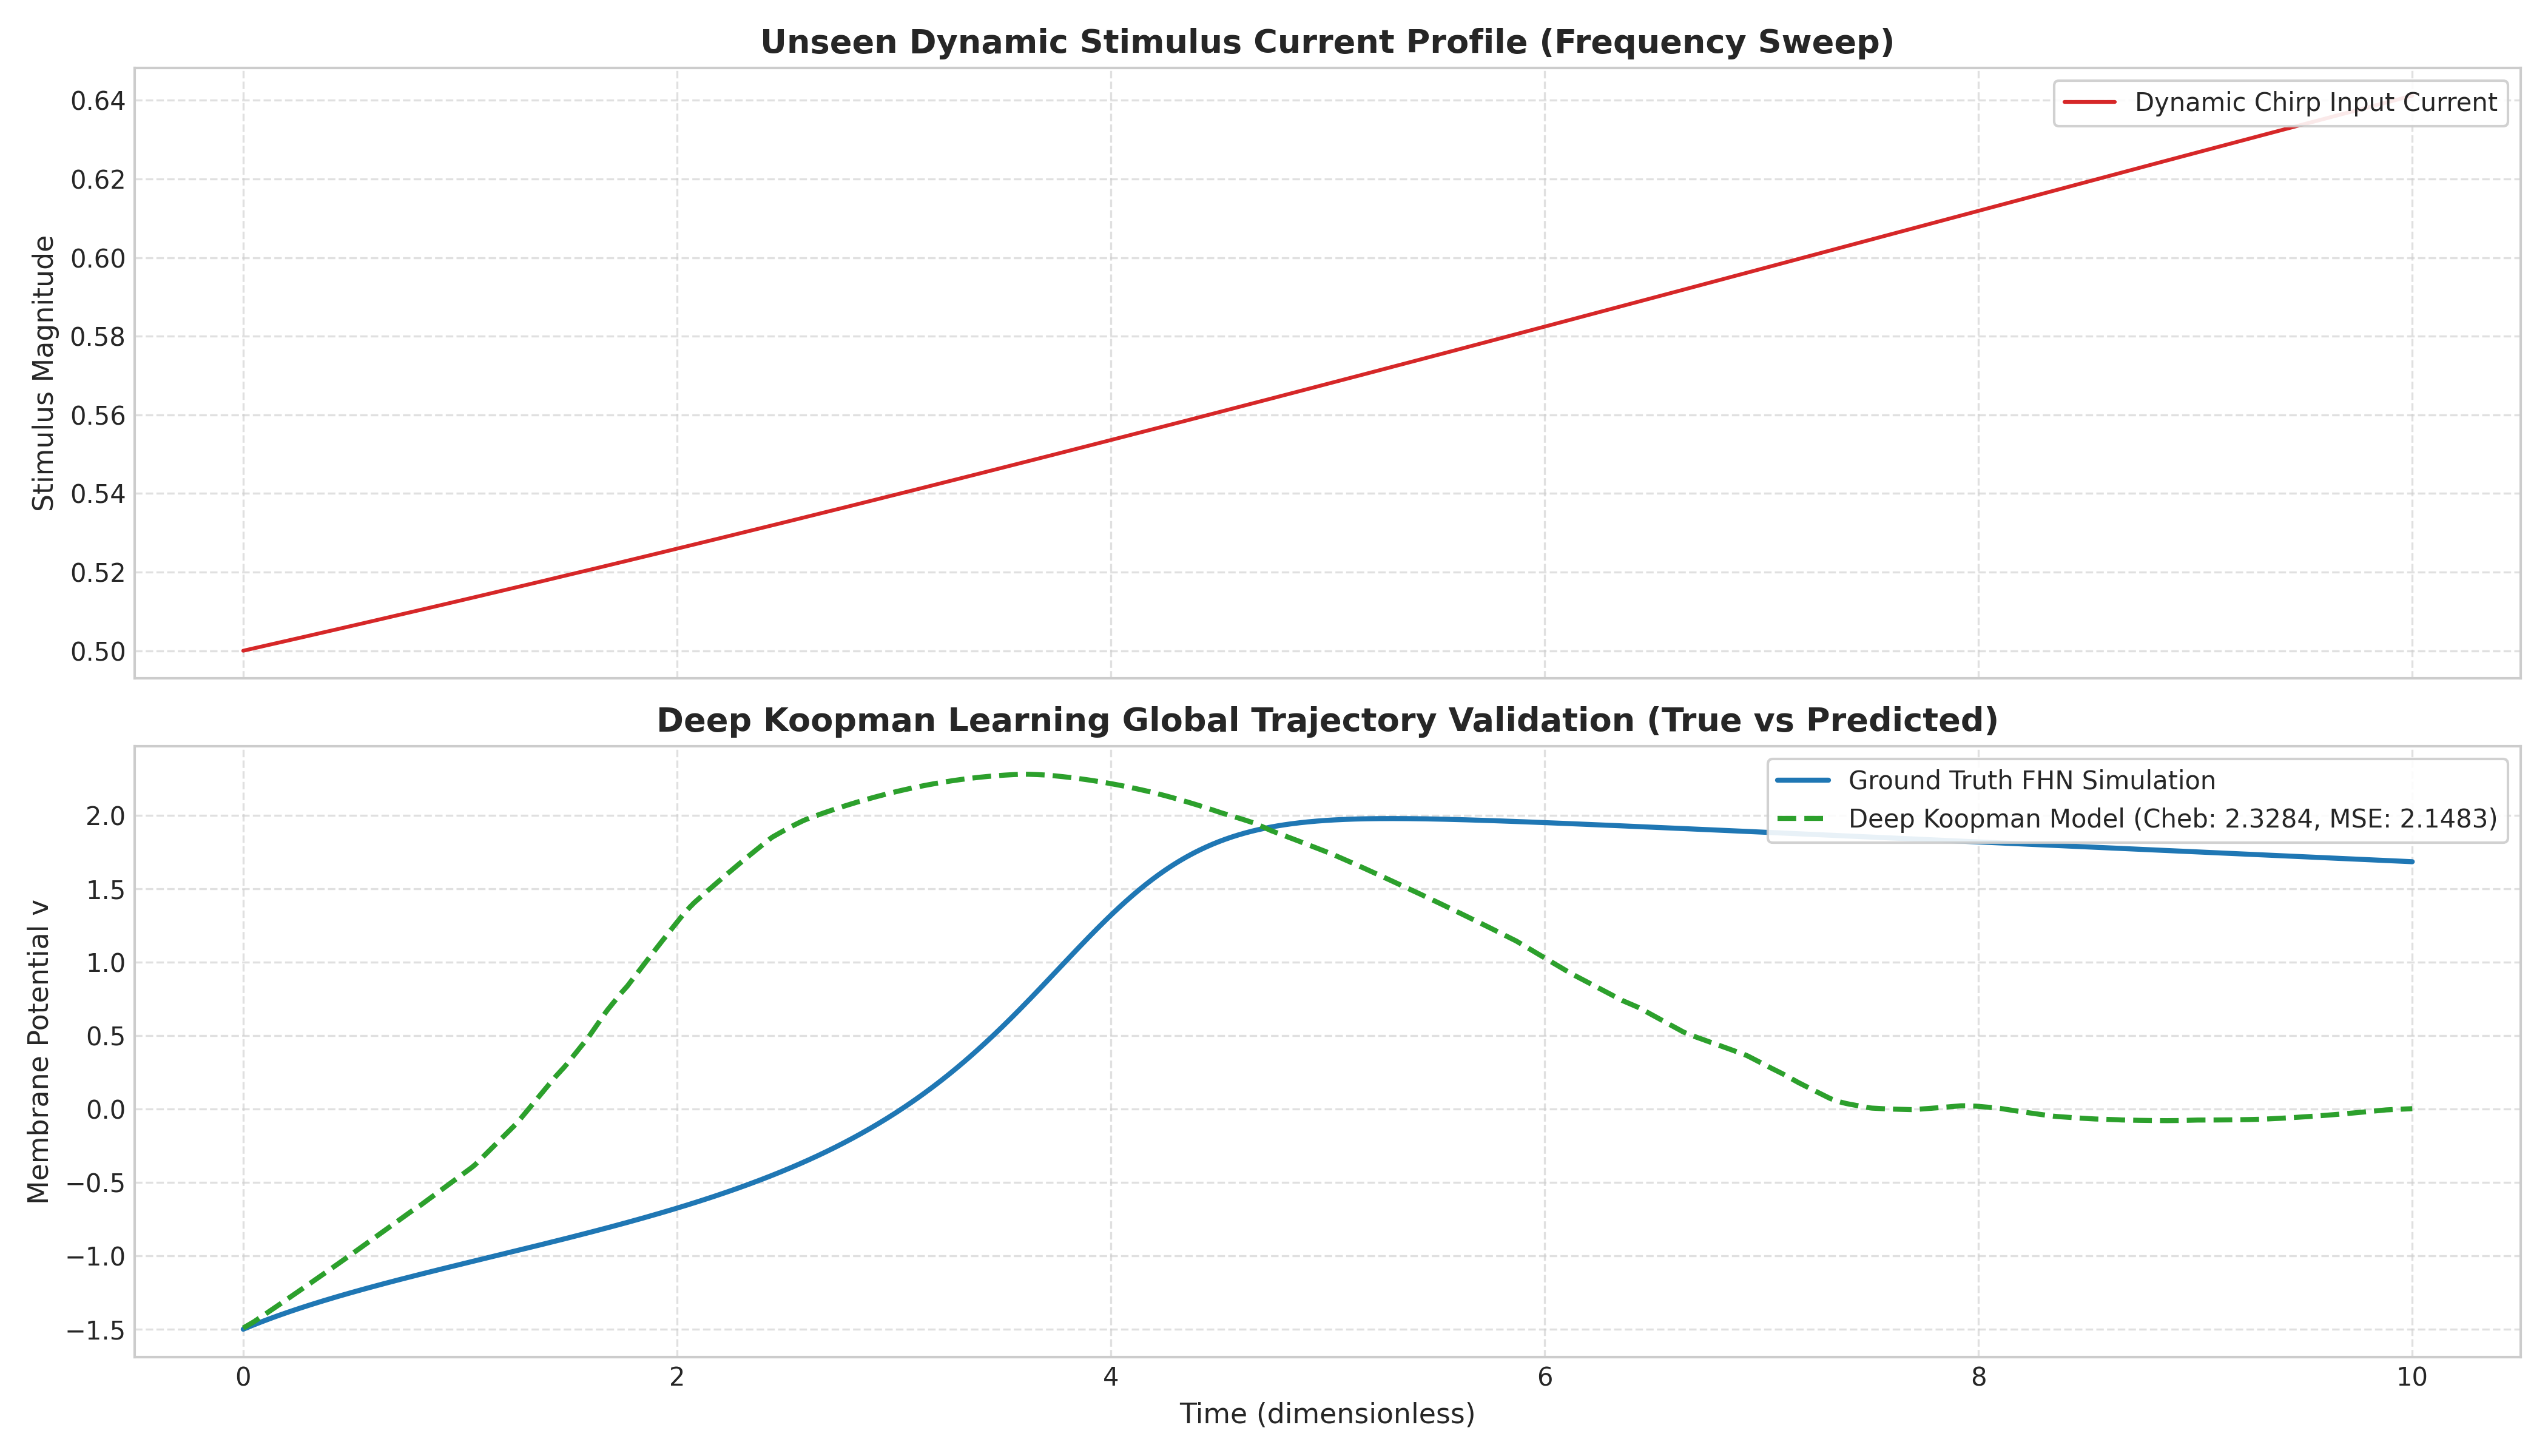
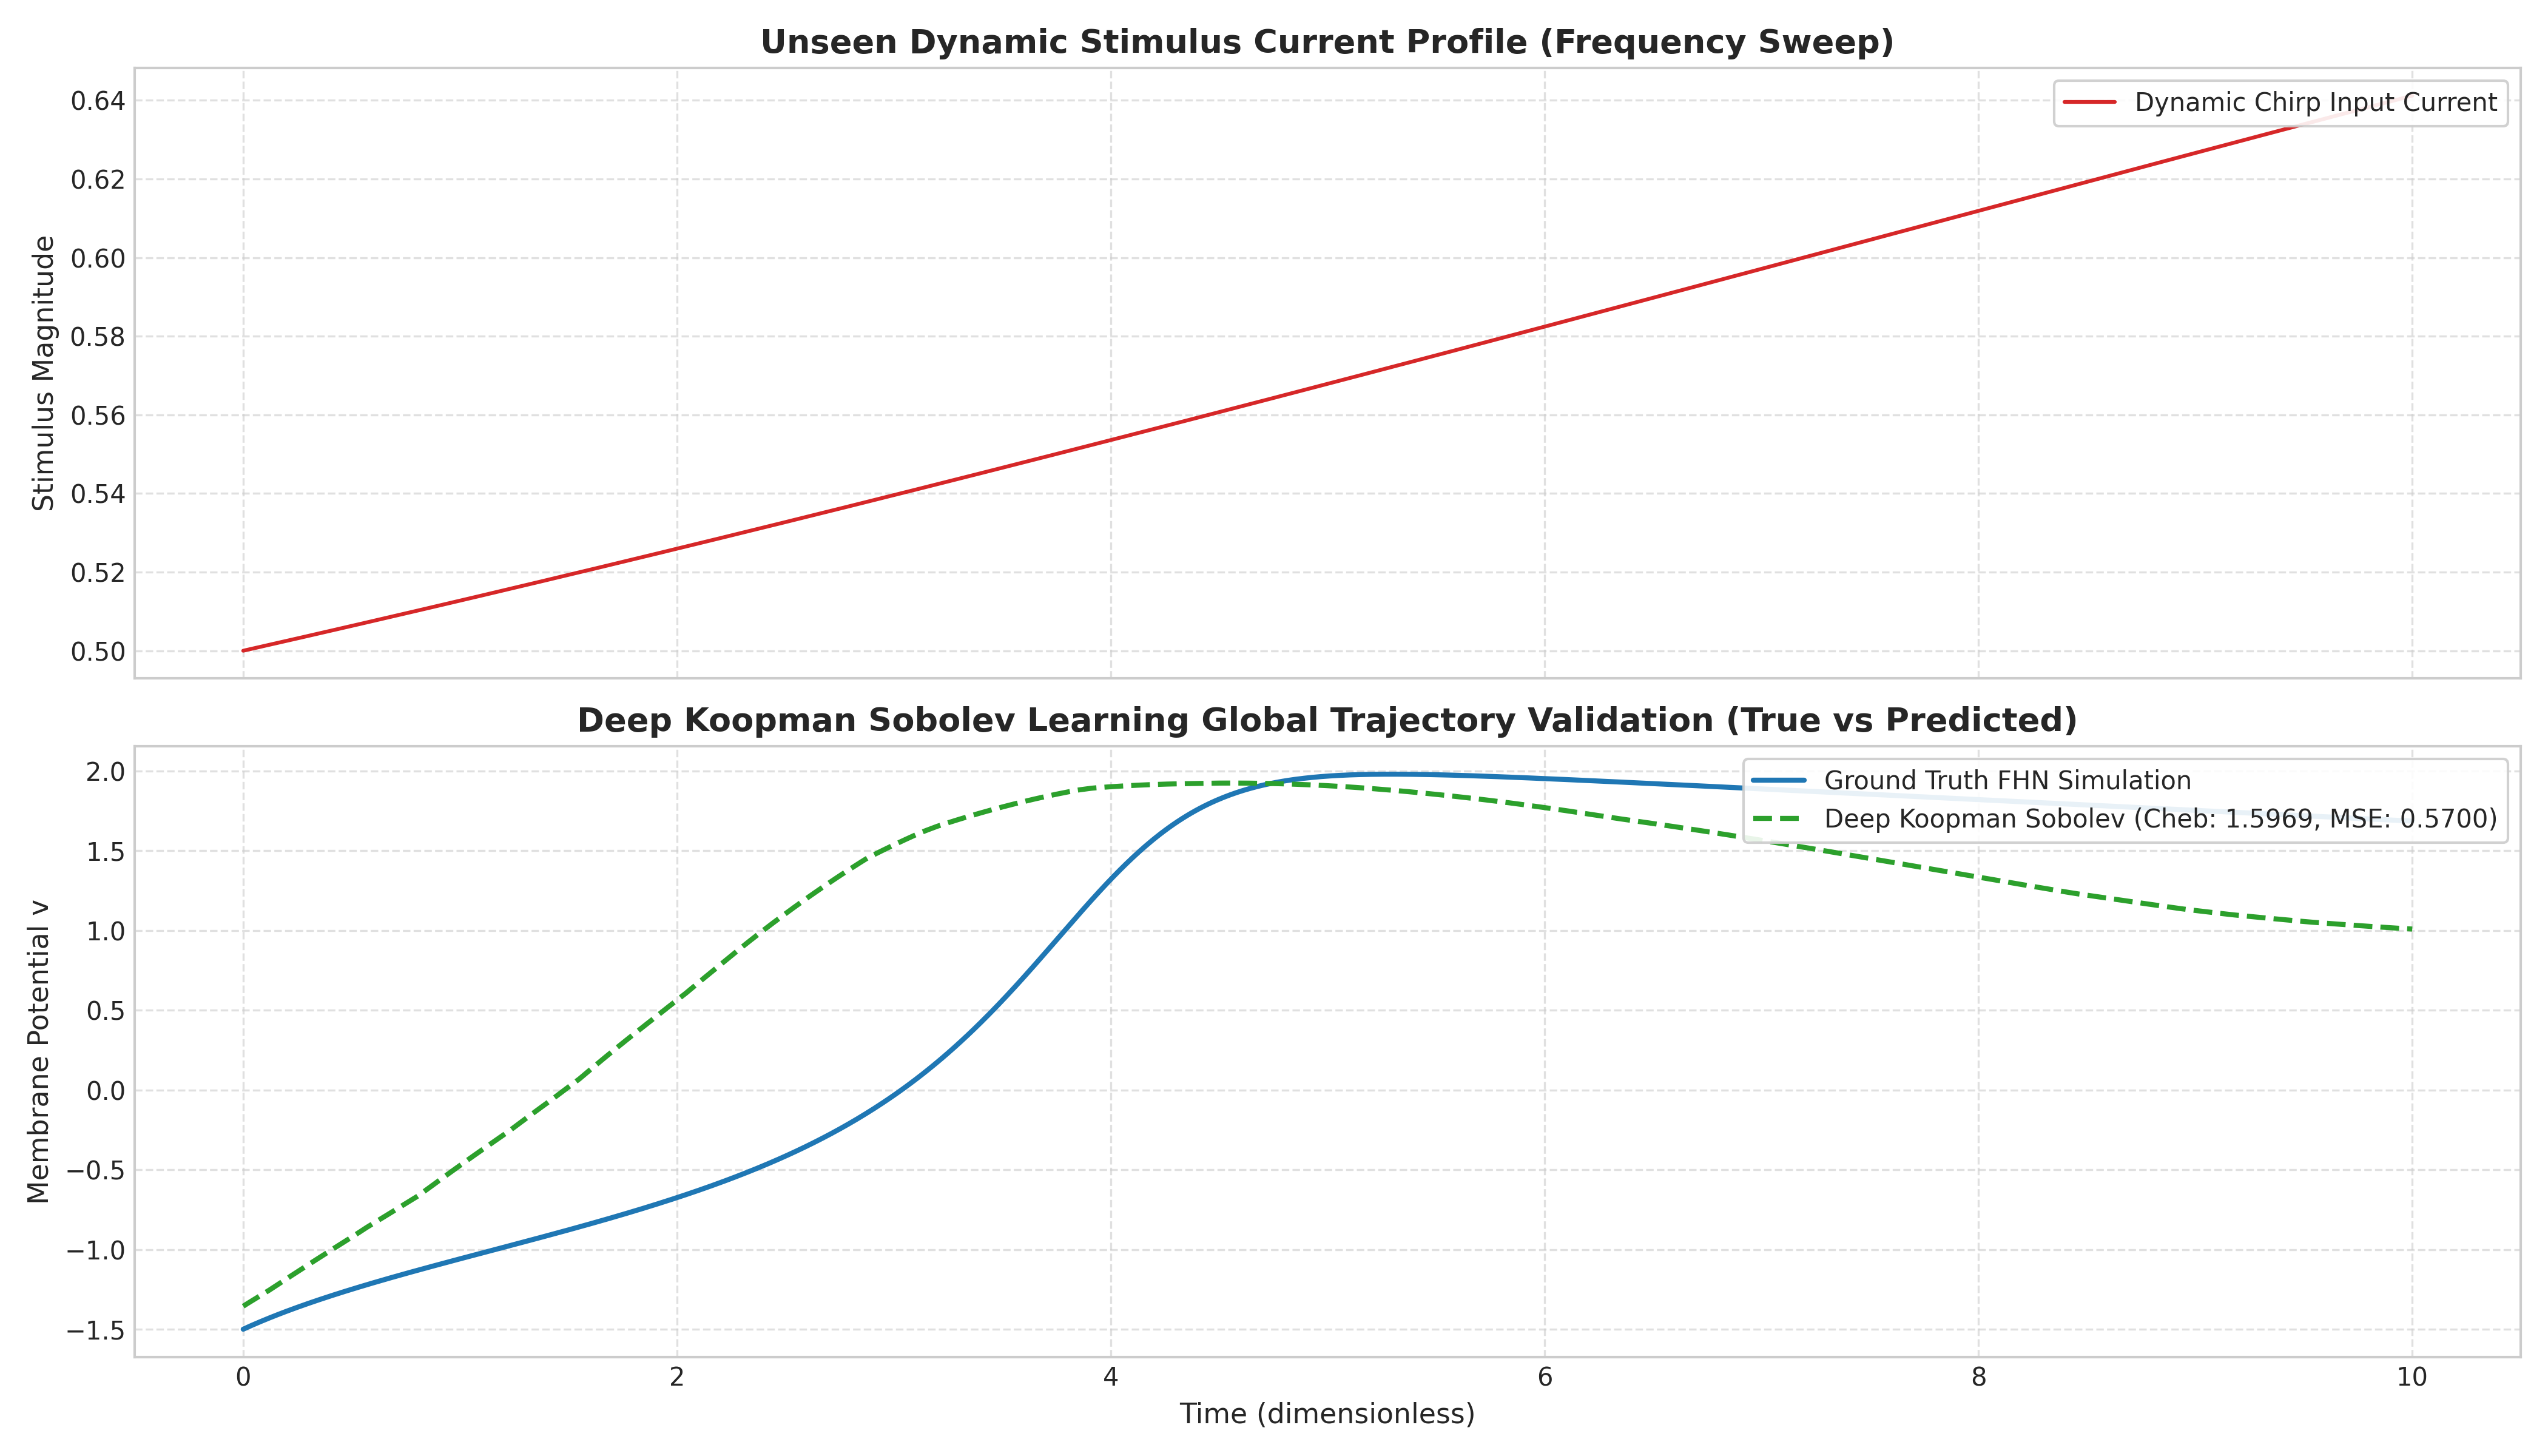
Implement Sobolev-regularized JAX Deep Koopman Learning with rotational latent operators

diff --git a/deep_koopman_learning.py b/deep_koopman_learning.py
@@ -1,5 +1,5 @@
 """
-Deep Koopman Learning for Global Dynamics in the FitzHugh-Nagumo Model.
+Deep Koopman Learning with Sobolev training for Global Dynamics in the FitzHugh-Nagumo Model.
 """
 
 import os
@@ -37,6 +37,14 @@ def forward_mlp(x, params):
     layer = params[-1]
     return jnp.dot(activation, layer["w"]) + layer["b"]
 
+def compute_fhn_derivatives(ys, u_data, a=0.7, b=0.8, tau=12.5):
+    """Computes the exact continuous-time FHN vector field derivatives for a batch of trajectories."""
+    v = ys[:, :, 0]
+    w = ys[:, :, 1]
+    dv = v - (v ** 3) / 3.0 - w + u_data
+    dw = (v + a - b * w) / tau
+    return jnp.stack([dv, dw], axis=2)
+
 def apply_koopman_operator(z, u, sigma_0, omega_0, sigma_I, omega_I, dt):
     """Applies the block-diagonal parameterized Koopman operator in latent space."""
     sigma = sigma_0 + sigma_I * u[:, None]
@@ -50,8 +58,18 @@ def apply_koopman_operator(z, u, sigma_0, omega_0, sigma_I, omega_I, dt):
     z_next1 = scale * (z0 * sin_w + z1 * cos_w)
     return jnp.stack([z_next0, z_next1], axis=2)
 
-def compute_losses(params_dict, trajectories, current_profiles, m, n_predict, dt):
-    """Computes the three Deep Koopman learning losses over a batch of trajectories."""
+def apply_continuous_koopman(z, u, sigma_0, omega_0, sigma_I, omega_I):
+    """Applies the block-diagonal continuous-time parameterized Koopman operator in latent space."""
+    sigma = sigma_0 + sigma_I * u[:, None]
+    omega = omega_0 + omega_I * u[:, None]
+    z0 = z[:, :, 0]
+    z1 = z[:, :, 1]
+    z_dot0 = sigma * z0 - omega * z1
+    z_dot1 = omega * z0 + sigma * z1
+    return jnp.stack([z_dot0, z_dot1], axis=2)
+
+def compute_losses(params_dict, trajectories, trajectory_dots, current_profiles, m, n_predict, dt):
+    """Computes the three Deep Koopman learning losses including Sobolev training terms."""
     params_enc = params_dict["enc"]
     params_dec = params_dict["dec"]
     sigma_0 = params_dict["sigma_0"]
@@ -61,9 +79,20 @@ def compute_losses(params_dict, trajectories, current_profiles, m, n_predict, dt
     
     batch_size, T, _ = trajectories.shape
     x_flat = trajectories.reshape(-1, 2)
+    x_dot_flat = trajectory_dots.reshape(-1, 2)
+    
     z_flat = forward_mlp(x_flat, params_enc)
     x_recon_flat = forward_mlp(z_flat, params_dec)
-    loss_recon = jnp.mean((x_flat - x_recon_flat) ** 2)
+    loss_recon_state = jnp.mean((x_flat - x_recon_flat) ** 2)
+    
+    def reconstruct_jvp(x_val, x_dot_val):
+        _, z_dot = jax.jvp(lambda x_in: forward_mlp(x_in, params_enc), (x_val,), (x_dot_val,))
+        _, x_recon_dot = jax.jvp(lambda z_in: forward_mlp(z_in, params_dec), (forward_mlp(x_val, params_enc),), (z_dot,))
+        return x_recon_dot
+        
+    x_recon_dot_flat = jax.vmap(reconstruct_jvp)(x_flat, x_dot_flat)
+    loss_recon_sobolev = jnp.mean((x_dot_flat - x_recon_dot_flat) ** 2)
+    loss_recon = loss_recon_state + loss_recon_sobolev
     
     z_seq = z_flat.reshape(batch_size, T, m, 2)
     z_curr = z_seq[:, :-1]
@@ -76,7 +105,20 @@ def compute_losses(params_dict, trajectories, current_profiles, m, n_predict, dt
         z_curr_flat, u_curr_flat, sigma_0, omega_0, sigma_I, omega_I, dt
     )
     z_next_true_flat = z_next_true.reshape(-1, m, 2)
-    loss_lin = jnp.mean((z_next_true_flat - z_next_pred_flat) ** 2)
+    loss_lin_state = jnp.mean((z_next_true_flat - z_next_pred_flat) ** 2)
+    
+    def encoder_jvp(x_val, x_dot_val):
+        _, z_dot = jax.jvp(lambda x_in: forward_mlp(x_in, params_enc), (x_val,), (x_dot_val,))
+        return z_dot
+        
+    z_dot_flat = jax.vmap(encoder_jvp)(x_flat, x_dot_flat)
+    z_dot_seq = z_dot_flat.reshape(batch_size, T, m, 2)
+    
+    z_flat_all = z_seq.reshape(-1, m, 2)
+    u_flat_all = current_profiles.reshape(-1)
+    z_dot_pred_flat = apply_continuous_koopman(z_flat_all, u_flat_all, sigma_0, omega_0, sigma_I, omega_I)
+    loss_lin_sobolev = jnp.mean((z_dot_flat - z_dot_pred_flat.reshape(-1, 2 * m)) ** 2)
+    loss_lin = loss_lin_state + loss_lin_sobolev
     
     stride = 20
     S = (T - 1 - n_predict) // stride
@@ -91,17 +133,36 @@ def compute_losses(params_dict, trajectories, current_profiles, m, n_predict, dt
         _, z_preds = jax.lax.scan(step, z_init, u_seq)
         return z_preds
         
+    def decoder_jvp(z_val, z_dot_val):
+        _, x_dot = jax.jvp(lambda z_in: forward_mlp(z_in, params_dec), (z_val,), (z_dot_val,))
+        return x_dot
+        
     def get_window_loss(idx):
         start = idx * stride
         z_init = jax.lax.dynamic_slice(z_seq, (0, start, 0, 0), (batch_size, 1, m, 2))
         z_init = jnp.squeeze(z_init, axis=1)
         u_seq = jax.lax.dynamic_slice(current_profiles, (0, start), (batch_size, n_predict))
         x_target = jax.lax.dynamic_slice(trajectories, (0, start + 1, 0), (batch_size, n_predict, 2))
+        x_dot_target = jax.lax.dynamic_slice(trajectory_dots, (0, start + 1, 0), (batch_size, n_predict, 2))
+        
         z_preds = jax.vmap(predict_forward_recursive, in_axes=(0, 0))(z_init, u_seq)
         z_preds_flat = z_preds.reshape(-1, 2 * m)
         x_preds_flat = forward_mlp(z_preds_flat, params_dec)
         x_preds = x_preds_flat.reshape(batch_size, n_predict, 2)
-        return jnp.mean((x_preds - x_target) ** 2)
+        loss_pred_state = jnp.mean((x_preds - x_target) ** 2)
+        
+        z_preds_m2 = z_preds.reshape(-1, m, 2)
+        u_seq_flat = u_seq.reshape(-1)
+        z_dot_preds_flat = apply_continuous_koopman(z_preds_m2, u_seq_flat, sigma_0, omega_0, sigma_I, omega_I)
+        
+        z_preds_flat_2m = z_preds.reshape(-1, 2 * m)
+        z_dot_preds_flat_2m = z_dot_preds_flat.reshape(-1, 2 * m)
+        x_dot_preds_flat = jax.vmap(decoder_jvp)(z_preds_flat_2m, z_dot_preds_flat_2m)
+        x_dot_preds = x_dot_preds_flat.reshape(batch_size, n_predict, 2)
+        
+        loss_pred_sobolev = jnp.mean((x_dot_preds - x_dot_target) ** 2)
+        
+        return loss_pred_state + loss_pred_sobolev
         
     window_losses = jax.vmap(get_window_loss)(jnp.arange(S))
     loss_pred = jnp.mean(window_losses)
@@ -127,7 +188,7 @@ def init_deep_koopman_params(m, key):
     }
 
 def main():
-    """Simulates FHN data, optimizes the deep Koopman networks, and validates."""
+    """Simulates FHN data, optimizes the deep Koopman networks using Sobolev training, and validates."""
     script_dir = os.path.dirname(os.path.abspath(__file__))
     plots_dir = os.path.join(script_dir, 'plots')
     os.makedirs(plots_dir, exist_ok=True)
@@ -168,8 +229,9 @@ def main():
     weights = (1.0, 1.0, 1.0)
     
     def total_loss_fn(params_dict, trajectories, current_profiles):
+        trajectory_dots = compute_fhn_derivatives(trajectories, current_profiles)
         l_rec, l_lin, l_pred = compute_losses(
-            params_dict, trajectories, current_profiles, args.latent_m, args.n_predict, args.dt
+            params_dict, trajectories, trajectory_dots, current_profiles, args.latent_m, args.n_predict, args.dt
         )
         return weights[0] * l_rec + weights[1] * l_lin + weights[2] * l_pred
         
@@ -186,12 +248,13 @@ def main():
         p_vars = optax.apply_updates(p_vars, updates)
         return p_vars, state, loss
         
-    print(f"Starting Deep Koopman training ({args.steps} epochs)...")
+    print(f"Starting Deep Koopman Sobolev training ({args.steps} epochs)...")
     for step in range(args.steps):
         params, opt_state, loss_val = train_step(params, opt_state, ys, u_data_batch)
         if step % 20 == 0 or step == args.steps - 1:
+            trajectory_dots = compute_fhn_derivatives(ys, u_data_batch)
             l_rec, l_lin, l_pred = compute_losses(
-                params, ys, u_data_batch, args.latent_m, args.n_predict, args.dt
+                params, ys, trajectory_dots, u_data_batch, args.latent_m, args.n_predict, args.dt
             )
             print(f"Epoch {step:03d} | Total Loss: {float(loss_val):.6f} | Recon: {float(l_rec):.6f} | Lin: {float(l_lin):.6f} | Pred: {float(l_pred):.6f}")
             
@@ -225,7 +288,7 @@ def main():
     cheb_deep = float(jnp.max(jnp.abs(v_chirp_true - v_chirp_pred_deep)))
     mse_deep = float(jnp.mean((v_chirp_true - v_chirp_pred_deep) ** 2))
     
-    print("\nDeep Koopman Validation Performance:")
+    print("\nDeep Koopman Sobolev Validation Performance:")
     print(f"  - Membrane Potential MSE: {mse_deep:.6e}")
     print(f"  - Membrane Potential Chebyshev: {cheb_deep:.6e}")
     
@@ -243,8 +306,8 @@ def main():
         ax1.grid(True, linestyle='--', alpha=0.6)
         
         ax2.plot(t_span, v_chirp_true, label='Ground Truth FHN Simulation', color='#1f77b4', linewidth=2.0)
-        ax2.plot(t_span, v_chirp_pred_deep, '--', label=f'Deep Koopman Model (Cheb: {cheb_deep:.4f}, MSE: {mse_deep:.4f})', color='#2ca02c', linewidth=2.0)
-        ax2.set_title("Deep Koopman Learning Global Trajectory Validation (True vs Predicted)", fontsize=13, fontweight='bold')
+        ax2.plot(t_span, v_chirp_pred_deep, '--', label=f'Deep Koopman Sobolev (Cheb: {cheb_deep:.4f}, MSE: {mse_deep:.4f})', color='#2ca02c', linewidth=2.0)
+        ax2.set_title("Deep Koopman Sobolev Learning Global Trajectory Validation (True vs Predicted)", fontsize=13, fontweight='bold')
         ax2.set_xlabel("Time (dimensionless)", fontsize=11)
         ax2.set_ylabel("Membrane Potential v", fontsize=11)
         ax2.legend(loc='upper right', frameon=True, facecolor='white', framealpha=0.9)